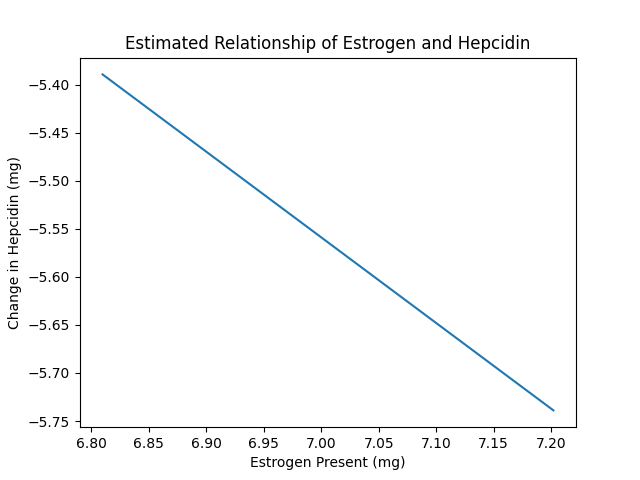
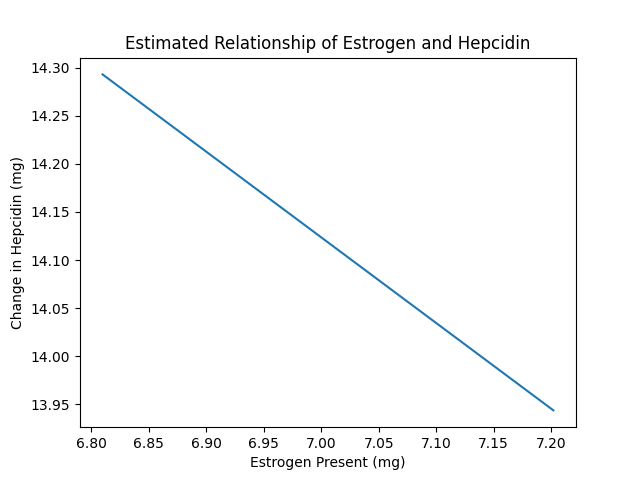
working but proportion changed

diff --git a/equations.py b/equations.py
@@ -43,8 +43,11 @@ for i in range(cycle.size) :
         estgraph[i] = -220*(cycle[i]-14)*np.e**(.8*(cycle[i]-14)) + 50
     elif cycle[i]>14 and cycle[i]<=20 :
         estgraph[i] = 2.5*(cycle[i]-16)**2 + 50
-    else:
+    elif cycle[i]<27.7 :
         estgraph[i] = -2.3*(cycle[i]-22.7)**2 + 108
+    else :
+        estgraph[i] = estgraph[0]
+
 #estrogen just during menstruation - also converts est from pg/L to mg/dL
 for i in range(time.size) :
     est[i] = c.bloodflowRepQ*0.0001*(-220*(time[i]-14)*np.e**(.8*(time[i]-14)) + 50)
@@ -61,7 +64,7 @@ for i in range(cycle.size) :
 #small intestine: no acc of anything, nothing to track.
 
 #initial value for hepcidin: 
-hep[0] = c.hepIron*(c.m4hemo+c.m5hemo)*.00343 + 25.75 + c.hepEst*est[0] + 0.678
+hep[0] = c.hepIron*(0)*.00343 + 25.75 + c.hepEst*est[0] + 0.678
 blossrate[0] = 0 #day 0 of cycle, no bloodlost.
 
 for i in range(1,time.size) :
@@ -69,11 +72,11 @@ for i in range(1,time.size) :
     hemo9[i] = (c.m4hemo + c.m8hemo -blossrate[i])
     hemo6[i] = (c.m3hemo  + hemo9[i] + c.m5hemo - c.m8hemo)
     
-    hep[i] = 25.75 + c.hepEst*est[0] + 0.678
+    hep[i] = c.hepIron*blossrate[i] + 25.75 + c.hepEst*est[0] + 0.678 
 
     
     #STORAGE:
-    ironStor[i] = ironStor[i-1] + c.ironHep*hep[i] +186.7
+    ironStor[i] = c.ironHep*hep[i]
 
     #hemo 
 
@@ -86,7 +89,7 @@ for i in range(1,time.size) :
 print("times: ", time)
 print("iron in storage: ", ironStor)
 print("hep: ", hep)
-print("hemo6: ", hemo6)
+#print("hemo6: ", hemo6)
 print("est: ", est)
 print("blood: ", blossrate)
 

diff --git a/graphing.py b/graphing.py
@@ -9,7 +9,7 @@ import numpy as np
 #time vs accIron, accEstrogen, hepcidin in storage
 plt.plot(e.time, e.ironStor, label='iron')
 plt.plot(e.time, e.est, label='estrogen')
-#plt.plot(e.time, e.hep, label="hepcidin")
+plt.plot(e.time, e.hep, label="hepcidin")
 plt.xlabel("time (days)")
 plt.ylabel("Stored (mg)")
 plt.legend()
@@ -18,7 +18,7 @@ plt.show()
 plt.close()
 
 #estrogen vs hepcidin linear
-plt.plot(e.est, -0.891*e.est+0.678)
+plt.plot(e.est, -0.891*e.est+e.hep[0])
 plt.xlabel("Estrogen Present (mg)")
 plt.ylabel("Change in Hepcidin (mg)")
 plt.title("Estimated Relationship of Estrogen and Hepcidin")
@@ -34,8 +34,8 @@ ax1.plot(e.time, e.est, color=color)
 ax1.tick_params(axis='y', labelcolor='black')
 ax2 = ax1.twinx()  
 color = 'blue'
-ax2.set_ylabel('Hepcidin (mg)', color=color)  
-ax2.plot(e.time, -.891*e.est+0.678, color=color)
+ax2.set_ylabel('Change in Hepcidin (mg)', color=color)  
+ax2.plot(e.time, -.891*e.est+e.hep[0], color=color)
 ax2.tick_params(axis='y', labelcolor='black')
 fig.tight_layout()  
 plt.xticks([1,2,3,4,5,6])
@@ -84,7 +84,7 @@ plt.xticks([1,4,8,12,16,20,24,28])
 plt.axvspan(0, 6, facecolor='red', alpha=0.2)
 plt.text(.1,14, "Menstruation");
 plt.title('Hormone Variation Over Cycle')
-#plt.savefig("hormones.png", bbox_inches="tight")
+plt.savefig("hormones.png", bbox_inches="tight")
 #plt.show()
 
 #blood loss over time during cycle

diff --git a/initial_numbers.py b/initial_numbers.py
@@ -45,7 +45,7 @@ accEst = c #accumulation of estrogen in the reproductive system, varies per day
 hepIron = -0.138#*m7hemo + 25.75 #mg/day, used to calculate the amount of hepcidin based on amount of hemoglobin leaving through menstruation, changes daily
 hepEst = -0.891#*accEst + 0.678 #mg/day, used to calculate the amount of hepcidin based on the amount of estrogen
 hepTotal = hepIron + hepEst #total hepcidin per day
-ironHep = -7.26#*hepTotal +186.98 #total iron in storage
+ironHep = 12.26#*hepTotal +186.98 #total iron in storage
 
 
 #normal values that are most relevant to graphing
